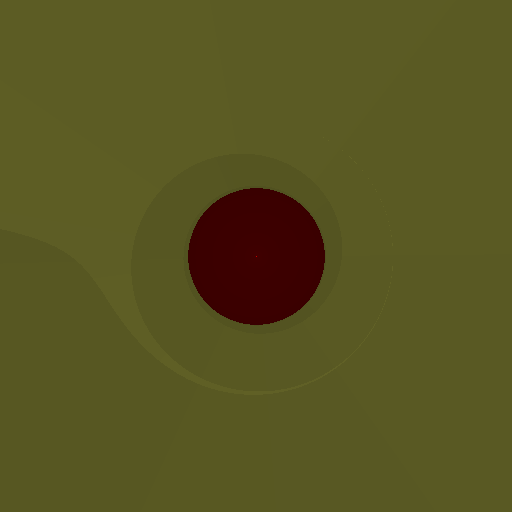
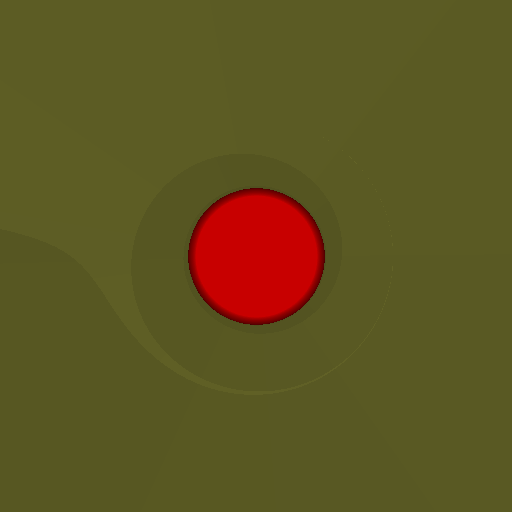
Ряд улучшений и исправлений.

Changed region(s): [[0.3438, 0.3438, 0.6562, 0.6562]]

diff --git a/FractalExplorerWPF/FractalExplorerWPF/FractalExplorerWPF/Core/Rendering/BasinExplorerEngine.Planar.cs b/FractalExplorerWPF/FractalExplorerWPF/FractalExplorerWPF/Core/Rendering/BasinExplorerEngine.Planar.cs
@@ -14,6 +14,7 @@ public sealed partial class BasinExplorerEngine
     private Func<Complex, (double A, double B, double C, double D)>? _planarJacobian;
     private List<PlanarBasinAttractor> _planarAttractors = [];
     private Complex[] _sectionNormals = [];
+    private EquilibriumTrap[] _equilibriumTraps = [];
     public bool IsPlanar => BasinExplorerCatalog.UsesPlanar(Kind);
     public IReadOnlyList<PlanarBasinAttractor> PlanarAttractors => _planarAttractors;
     public PlanarBasinSettings PlanarSettings => _planar.Clone();
@@ -24,6 +25,7 @@ public sealed partial class BasinExplorerEngine
         _planarField = null;
         _planarAttractors = [];
         _sectionNormals = [];
+        _equilibriumTraps = [];
         _planar = settings.Clone();
         ValidatePlanarSettings();
         RootSearchRadius = _planar.SearchRadius;
@@ -89,7 +91,9 @@ public sealed partial class BasinExplorerEngine
             BasinExplorerKind.ComplexGradientFlow => $"V(z) = |{complexFormula}|²/2\nz′ = −f(z)·conj(f′(z)). RK 5(4), контроль локальной ошибки.\nКритические точки с f ≠ 0 не считаются минимумами.",
             _ => $"x′ = {_planar.FieldX}\ny′ = {_planar.FieldY}\nRK 5(4). Равновесия: tr J < 0, det J > 0. Циклы: повторные возвраты на секцию и exp(∮div F dt) < 1."
         };
-        DebugInfo += $"\nАттракторов: {_planarAttractors.Count}. Поиск по конечной сетке ±{_planar.SearchRadius:G5}, полнота не гарантируется.\nЛимит времени/шагов оставляет медленные и нераспознанные траектории фоном.";
+        DebugInfo += $"\nАттракторов: {_planarAttractors.Count}. Поиск по конечной сетке ±{_planar.SearchRadius:G5}, полнота не гарантируется.\nЛимит времени/шагов оставляет медленные и нераспознанные траектории фоном." +
+            (Kind == BasinExplorerKind.GradientDescent ? string.Empty
+                : "\nУстойчивое равновесие захватывает и эллипс Ляпунова, в котором поле направлено внутрь; цикл — сжатие возвратов на секцию в μ раз за оборот.");
     }
 
     private void ValidatePlanarSettings()
@@ -118,11 +122,14 @@ public sealed partial class BasinExplorerEngine
     {
         if (Kind != BasinExplorerKind.ComplexGradientFlow)
         {
-            for (int iy = 0; iy <= 12; iy++)
-            for (int ix = 0; ix <= 12; ix++)
+            // Шаг сетки — 1/20 радиуса: при редкой сетке Ньютон из затравок у потенциалов с частыми
+            // минимумами приходит в сёдла и максимумы, и часть минимумов теряется.
+            const int half = 20;
+            for (int iy = 0; iy <= 2 * half; iy++)
+            for (int ix = 0; ix <= 2 * half; ix++)
             {
                 token.ThrowIfCancellationRequested();
-                Complex seed = new(_planar.SearchRadius * (ix / 6.0 - 1), _planar.SearchRadius * (iy / 6.0 - 1));
+                Complex seed = new(_planar.SearchRadius * ((double)ix / half - 1), _planar.SearchRadius * ((double)iy / half - 1));
                 if (TryPlanarEquilibrium(seed, out Complex root)) AddPlanarAttractor(new() { Points = [root] });
             }
         }
@@ -183,19 +190,31 @@ public sealed partial class BasinExplorerEngine
             if (candidate.IsCycle != known.IsCycle) continue;
             if (!candidate.IsCycle && (candidate.Points[0] - known.Points[0]).Magnitude < tolerance) return;
             if (candidate.IsCycle && Math.Abs(candidate.Period - known.Period) < tolerance * (1 + known.Period) &&
-                DistanceToCycle(candidate.Points[0], known.Points) < tolerance * (1 + candidate.Points[0].Magnitude)) return;
+                (DistanceToCycle(candidate.Points[0], known.Points) < tolerance * (1 + candidate.Points[0].Magnitude) ||
+                 PassesThroughCycleAnchor(candidate.Points[0], known))) return;
         }
         if (_planarAttractors.Count < 256) _planarAttractors.Add(candidate);
     }
 
-    private void RebuildPlanarSections() => _sectionNormals = _planarAttractors.Select(a =>
+    private void RebuildPlanarSections()
     {
-        Complex speed = _planarField!(a.Points[0]);
-        return a.IsCycle && speed.Magnitude > 0 ? speed / speed.Magnitude : Complex.Zero;
-    }).ToArray();
+        _sectionNormals = _planarAttractors.Select(a =>
+        {
+            Complex speed = _planarField!(a.Points[0]);
+            return a.IsCycle && speed.Magnitude > 0 ? speed / speed.Magnitude : Complex.Zero;
+        }).ToArray();
+        _equilibriumTraps = new EquilibriumTrap[_planarAttractors.Count];
+        // Ловушки опираются на непрерывность времени; у дискретного оптимизатора шаг может
+        // перепрыгнуть границу эллипса, поэтому там остаётся только допуск сходимости.
+        if (Kind == BasinExplorerKind.GradientDescent) return;
+        for (int i = 0; i < _planarAttractors.Count; i++)
+            if (!_planarAttractors[i].IsCycle) _equilibriumTraps[i] = BuildEquilibriumTrap(i);
+    }
 
     private int PlanarPointTarget(Complex z, Complex field)
     {
+        for (int i = 0; i < _equilibriumTraps.Length; i++)
+            if (_equilibriumTraps[i].Contains(z - _planarAttractors[i].Points[0])) return i;
         double tolerance = _planar.ConvergenceTolerance * (1 + z.Magnitude);
         if (field.Magnitude > tolerance) return -1;
         for (int i = 0; i < _planarAttractors.Count; i++)
@@ -251,12 +270,12 @@ public sealed partial class BasinExplorerEngine
 
     private BasinOrbitResult FlowOrbit(Complex z, CancellationToken token, List<Complex>? trace = null)
     {
-        double time = 0, h = _planar.TimeStep;
-        int cycleCandidate = -1, cycleHits = 0;
-        double previousHit = -1;
+        double time = 0, h = _planar.TimeStep, endTime = PlanarEndTime;
+        int cycleCandidate = -1, nearHits = 0, contractions = 0;
+        double previousHit = -1, previousOffset = 0;
         trace?.Add(z);
         int i = 0;
-        for (; i < MaxIterations && time < _planar.MaxTime; i++)
+        for (; i < MaxIterations && time < endTime; i++)
         {
             if ((i & 15) == 0) token.ThrowIfCancellationRequested();
             if (!IsFinite(z)) return new(BasinOrbitOutcome.NonFinite, i, time, z);
@@ -271,24 +290,121 @@ public sealed partial class BasinExplorerEngine
             for (int index = 0; index < _planarAttractors.Count; index++)
             {
                 PlanarBasinAttractor a = _planarAttractors[index];
-                if (!a.IsCycle || !CrossesSection(z, next, a.Points[0], _sectionNormals[index])) continue;
-                (Complex crossing, double fraction) = RefineSection(z, dt, a.Points[0], _sectionNormals[index]);
-                double tolerance = Math.Max(10 * _planar.ConvergenceTolerance, 30 * _planar.IntegrationTolerance) * (1 + crossing.Magnitude);
+                Complex anchor = a.Points[0], normal = _sectionNormals[index];
+                if (!a.IsCycle || !CrossesSection(z, next, anchor, normal)) continue;
+                (Complex crossing, double fraction) = RefineSection(z, dt, anchor, normal);
                 double hitTime = time + dt * fraction;
-                if ((crossing - a.Points[0]).Magnitude > tolerance) { if (cycleCandidate == index) cycleHits = 0; continue; }
-                cycleHits = cycleCandidate == index && Math.Abs(hitTime - previousHit - a.Period) < Math.Max(1e-3, tolerance) * (1 + a.Period)
-                    ? cycleHits + 1 : 1;
-                cycleCandidate = index; previousHit = hitTime;
-                if (cycleHits >= 3)
+                double distance = (crossing - anchor).Magnitude;
+                // Дальше этой окрестности возвраты на секцию не сравниваются с линейной моделью цикла.
+                if (distance > 0.1 * (1 + anchor.Magnitude))
+                {
+                    if (cycleCandidate == index) { nearHits = 0; contractions = 0; }
+                    continue;
+                }
+                double tolerance = Math.Max(10 * _planar.ConvergenceTolerance, 30 * _planar.IntegrationTolerance) * (1 + crossing.Magnitude);
+                double offset = Dot(crossing - anchor, new Complex(-normal.Imaginary, normal.Real));
+                bool sameCycle = cycleCandidate == index;
+                double returnTime = hitTime - previousHit;
+                if (distance > tolerance) nearHits = 0;
+                else nearHits = sameCycle && nearHits > 0 &&
+                    Math.Abs(returnTime - a.Period) < Math.Max(1e-3, tolerance) * (1 + a.Period) ? nearHits + 1 : 1;
+                // Слабо притягивающий цикл не успевает подойти на допуск за отведённое время, но уже
+                // в линейном режиме: смещение вдоль секции за оборот убывает ровно в μ раз. Сильно
+                // притягивающим циклам (μ < 0.01) это не нужно: они и так за пару оборотов входят в
+                // допуск, а их отношение смещений в нелинейной зоне шумит и дробило бы яркость.
+                bool contracting = sameCycle && a.TransverseMultiplier >= 0.01 && Math.Abs(returnTime - a.Period) < 0.05 * (1 + a.Period) &&
+                    offset * previousOffset > 0 && Math.Abs(offset) < Math.Abs(previousOffset) &&
+                    Math.Abs(Math.Abs(offset / previousOffset) - a.TransverseMultiplier) <= 0.25 * a.TransverseMultiplier + 0.02;
+                contractions = contracting ? contractions + 1 : 0;
+                cycleCandidate = index; previousHit = hitTime; previousOffset = offset;
+                if (nearHits >= 3 || contractions >= 2)
                 {
                     trace?.Add(crossing);
-                    return new(BasinOrbitOutcome.Converged, i + 1, hitTime, crossing, index);
+                    // Время для яркости — как у захвата по допуску: момент третьего возврата в допуск,
+                    // предсказанный по μ. Иначе оно зависело бы от того, на каком обороте сработала
+                    // проверка сжатия, и яркость бассейна шла бы зубцами.
+                    double captureTime = nearHits >= 3 ? hitTime
+                        : hitTime + a.Period * (2 + Math.Max(0, Math.Log(distance / tolerance) / -Math.Log(Math.Max(1e-300, a.TransverseMultiplier))));
+                    return new(BasinOrbitOutcome.Converged, i + 1, captureTime, crossing, index);
                 }
             }
             z = next; time += dt;
             trace?.Add(z);
         }
         return new(BasinOrbitOutcome.IterationLimit, i, time, z);
+    }
+
+    /// <summary>
+    /// Момент остановки чуть раньше лимита: иначе остаток времени после округлений (~1e-13)
+    /// меньше минимального шага интегратора, и исчерпанный лимит выглядел бы вырожденным шагом.
+    /// </summary>
+    private double PlanarEndTime => _planar.MaxTime * (1 - 1e-9);
+
+    /// <summary>
+    /// Эллипс δᵀPδ ≤ s² вокруг устойчивого равновесия, на границах которого поле во всех
+    /// проверенных направлениях заметно смотрит внутрь. P решает уравнение Ляпунова
+    /// JᵀP + PJ = −I; для вырожденного J (например, у кратного корня) берётся P = I. Эллипсы
+    /// проверяются от окрестности допуска наружу с шагом ×1.5, поэтому вошедшая траектория
+    /// из эллипса не выходит и приходит к равновесию. Так медленная спираль или кратный корень
+    /// не остаются фоном лишь потому, что не успели подойти на допуск за отведённое время.
+    /// Проверка выборочная (48 направлений на кольцо) — численная оценка, а не доказательство.
+    /// </summary>
+    private EquilibriumTrap BuildEquilibriumTrap(int index)
+    {
+        Complex point = _planarAttractors[index].Points[0];
+        var (a, b, c, d) = _planarJacobian!(point);
+        double p11 = 1, p12 = 0, p22 = 1;
+        // Правило Крамера для [2a 2c 0; b a+d c; 0 2b 2d]·(p11, p12, p22) = (−1, 0, −1).
+        double det = 2 * a * (2 * d * (a + d) - 2 * b * c) - 4 * b * c * d;
+        double size = Math.Abs(a) + Math.Abs(b) + Math.Abs(c) + Math.Abs(d);
+        if (double.IsFinite(det) && size > 0 && Math.Abs(det) > 1e-12 * size * size * size)
+        {
+            double q11 = (-2 * d * (a + d) + 2 * b * c - 2 * c * c) / det;
+            double q12 = (2 * a * c + 2 * b * d) / det;
+            double q22 = (-2 * a * (a + d) + 2 * b * c - 2 * b * b) / det;
+            if (double.IsFinite(q11) && double.IsFinite(q12) && double.IsFinite(q22) && q11 > 0 && q11 * q22 - q12 * q12 > 0)
+            {
+                double norm = Math.Max(q11, q22);
+                (p11, p12, p22) = (q11 / norm, q12 / norm, q22 / norm);
+            }
+        }
+        var shape = new EquilibriumTrap(p11, p12, p22, 0);
+        double spread = Math.Sqrt(Math.Pow((p11 - p22) / 2, 2) + p12 * p12);
+        double lambdaMin = (p11 + p22) / 2 - spread;
+        if (!(lambdaMin > 1e-12)) return shape;
+        double l11 = Math.Sqrt(p11), l21 = p12 / l11, l22 = Math.Sqrt(Math.Max(1e-300, p22 - l21 * l21));
+        double level = 0;
+        // Первое кольцо — на границе обычного допуска сходимости, последнее — в пределах радиуса ухода.
+        for (double s = 20 * _planar.ConvergenceTolerance * (1 + point.Magnitude) * Math.Sqrt(lambdaMin);
+             s / Math.Sqrt(lambdaMin) < _planar.EscapeRadius / 2; s *= 1.5)
+        {
+            bool inward = true;
+            for (int k = 0; k < 48 && inward; k++)
+            {
+                double angle = k * Math.PI / 24, ux = Math.Cos(angle), uy = Math.Sin(angle);
+                double dx = s * (ux / l11 - l21 * uy / (l11 * l22)), dy = s * uy / l22;
+                Complex field = _planarField!(point + new Complex(dx, dy));
+                if (!IsFinite(field)) { inward = false; break; }
+                double derivative = 2 * ((p11 * dx + p12 * dy) * field.Real + (p12 * dx + p22 * dy) * field.Imaginary);
+                double fieldNorm = Math.Sqrt(Math.Max(0,
+                    p11 * field.Real * field.Real + 2 * p12 * field.Real * field.Imaginary + p22 * field.Imaginary * field.Imaginary));
+                // Косинус угла между полем и внешней нормалью эллипса (в метрике P) не больше −0.02.
+                inward = derivative < -0.04 * s * fieldNorm;
+            }
+            var candidate = shape with { Level = s * s };
+            for (int other = 0; other < _planarAttractors.Count && inward; other++)
+                if (other != index && _planarAttractors[other].Points.Any(p => candidate.Contains(p - point)))
+                    inward = false;
+            if (!inward) break;
+            level = s * s;
+        }
+        return shape with { Level = level };
+    }
+
+    private readonly record struct EquilibriumTrap(double P11, double P12, double P22, double Level)
+    {
+        public bool Contains(Complex offset) => Level > 0 &&
+            P11 * offset.Real * offset.Real + 2 * P12 * offset.Real * offset.Imaginary + P22 * offset.Imaginary * offset.Imaginary <= Level;
     }
 
     private Color PlanarResultColor(BasinOrbitResult result)

diff --git a/FractalExplorerWPF/Verification/PlanarBasinVerification.cs b/FractalExplorerWPF/Verification/PlanarBasinVerification.cs
@@ -47,13 +47,38 @@ internal static partial class Program
             Check(himmelblau.AnalyzePoint(seed.Real, seed.Imaginary).Outcome == BasinOrbitOutcome.Converged, $"Himmelblau minimum near {seed} must capture.");
         var saddle = PlanarEngine(BasinExplorerKind.GradientDescent, new() { Potential = "(x^2-1)^2+y^2" });
         Check(saddle.TargetCount == 2 && saddle.AnalyzePoint(0, 0).TargetIndex < 0, "A stationary saddle must not be a minimum.");
+        var dense = PlanarEngine(BasinExplorerKind.GradientDescent, new() { Potential = "sin(3*x)*sin(3*y)+0.05*(x^2+y^2)", LearningRate = 0.02, SearchRadius = 3 });
+        int lost = 0;
+        for (int i = 0; i < 20; i++)
+        for (int j = 0; j < 20; j++)
+            if (dense.AnalyzePoint(-2 + 4 * (i + 0.37) / 20, -2 + 4 * (j + 0.61) / 20).TargetIndex < 0) lost++; // Не на диагонали x = y: там спуск честно приходит в сёдла.
+        Check(lost == 0, $"Dense minima inside the search radius must all be discovered; {lost} starts stayed background.");
         var escape = PlanarEngine(BasinExplorerKind.GradientDescent, new() { Potential = "(x^2+y^2)/2", LearningRate = 3 });
         Check(escape.AnalyzePoint(1, 1).Outcome == BasinOrbitOutcome.Escaped, "An unstable discrete step must escape, not silently shrink α.");
 
-        var flow = PlanarEngine(BasinExplorerKind.ComplexGradientFlow, new() { MaxTime = 1, IntegrationTolerance = 1e-9 }, "z");
+        // Без аттракторов захвата нет, и траектория доходит до лимита времени: проверяется сам интегратор.
+        var flow = new BasinExplorerEngine(BasinExplorerKind.ComplexGradientFlow) { MaxIterations = 8000 };
+        flow.ConfigurePlanar(new() { MaxTime = 1, IntegrationTolerance = 1e-9 }, "z", []);
         var decay = flow.AnalyzePoint(1, 2);
-        Check((decay.FinalPoint - new Complex(1, 2) * Math.Exp(-1)).Magnitude < 2e-8 && Math.Abs(decay.SmoothIterations - 1) < 1e-10,
-            $"Complex flow z′=-z must reproduce exponential decay and its time: {decay}.");
+        Check(decay.Outcome == BasinOrbitOutcome.IterationLimit &&
+              (decay.FinalPoint - new Complex(1, 2) * Math.Exp(-1)).Magnitude < 2e-8 && Math.Abs(decay.SmoothIterations - 1) < 1e-8,
+            $"Complex flow z′=-z must reproduce exponential decay and end as a time limit, not a degenerate step: {decay}.");
+        flow = PlanarEngine(BasinExplorerKind.ComplexGradientFlow, new(), "z");
+        Check(flow.AnalyzePoint(1, 2).TargetIndex == 0, "The Lyapunov trap of a linear sink must capture the whole disk around it.");
+        // Кратный корень: z′ ~ −|z−1|²(z−1) не подходит на допуск за разумное время, но бассейн
+        // обязан окрашиваться; ловушка при этом не должна дотянуться до седла V в z = −1/3.
+        var multiple = PlanarEngine(BasinExplorerKind.ComplexGradientFlow, new(), "(z-1)^2*(z+1)");
+        Check(multiple.TargetCount == 2 && multiple.AnalyzePoint(1.3, 0.2).TargetIndex == 1 && multiple.AnalyzePoint(-1.2, 0.1).TargetIndex == 0,
+            "A double root of the complex flow must color its basin.");
+        Check(multiple.AnalyzePoint(-1.0 / 3, 0).TargetIndex < 0, "The saddle of |f|² must not be inside an equilibrium trap.");
+        var weakFocus = PlanarEngine(BasinExplorerKind.PolynomialVectorField, new() { FieldX = "-0.05*x-y", FieldY = "x-0.05*y" });
+        Check(weakFocus.TargetCount == 1 && weakFocus.AnalyzePoint(1.5, 0.3).TargetIndex == 0, "A slowly contracting focus must not stay background.");
+        var weakCycle = PlanarEngine(BasinExplorerKind.PolynomialVectorField, new() { FieldX = "0.05*x*(1-x^2-y^2)-y", FieldY = "0.05*y*(1-x^2-y^2)+x" });
+        Check(weakCycle.TargetCount == 1 && weakCycle.AnalyzePoint(0.5, 0).TargetIndex == 0 && weakCycle.AnalyzePoint(1.5, 0.3).TargetIndex == 0,
+            "A weakly attracting cycle (μ ≈ 0.53) must be recognized by its per-turn contraction.");
+        var relaxation = PlanarEngine(BasinExplorerKind.PolynomialVectorField, new() { FieldX = "y", FieldY = "3*(1-x^2)*y-x" });
+        Check(relaxation.TargetCount == 1 && relaxation.AnalyzePoint(0.5, 0).TargetIndex == 0,
+            $"The Van der Pol relaxation cycle must be found once and capture orbits; found {relaxation.TargetCount}.");
         flow = PlanarEngine(BasinExplorerKind.ComplexGradientFlow, new(), "z^3-1");
         Check(flow.TargetCount == 3 && flow.AnalyzePoint(0, 0).TargetIndex < 0, "Complex flow must find roots but reject f′=0 with f≠0.");
         var trajectory = flow.TraceOrbit(0.6, 0.4, 512);

diff --git a/FractalExplorerWPF/FractalExplorerWPF/FractalExplorerWPF/Core/Rendering/BasinExplorerEngine.PlanarCycles.cs b/FractalExplorerWPF/FractalExplorerWPF/FractalExplorerWPF/Core/Rendering/BasinExplorerEngine.PlanarCycles.cs
@@ -15,7 +15,7 @@ public sealed partial class BasinExplorerEngine
         int repeats = 0;
         var lap = new List<Complex>();
         double maxStep = Math.Min(0.025, _planar.TimeStep);
-        for (int step = 0; step < MaxIterations && time < _planar.MaxTime; step++)
+        for (int step = 0; step < MaxIterations && time < PlanarEndTime; step++)
         {
             if ((step & 15) == 0) token.ThrowIfCancellationRequested();
             Complex speed = _planarField!(z);
@@ -56,6 +56,30 @@ public sealed partial class BasinExplorerEngine
             z = next; time += dt;
         }
         return null;
+    }
+
+    /// <summary>
+    /// Тот же ли это цикл: траектория из точки за полтора периода известного цикла пересекает его
+    /// секцию у опорной точки. Расстояние до ломаной точек цикла для этого ненадёжно: на быстрых
+    /// участках релаксационных колебаний хорды проходят далеко от самой кривой.
+    /// </summary>
+    private bool PassesThroughCycleAnchor(Complex start, PlanarBasinAttractor known)
+    {
+        Complex anchor = known.Points[0], speed = _planarField!(anchor);
+        if (!(speed.Magnitude > 0)) return false;
+        Complex normal = speed / speed.Magnitude;
+        double tolerance = Math.Max(1e-3, 50 * _planar.ConvergenceTolerance) * (1 + anchor.Magnitude);
+        double maxStep = Math.Min(0.025, _planar.TimeStep), h = maxStep, time = 0, end = 1.5 * known.Period;
+        Complex z = start;
+        for (int step = 0; step < 1_000_000 && time < end * (1 - 1e-9); step++)
+        {
+            if (!PlanarFlowIntegrator.Step(_planarField, z, ref h, maxStep, _planar.IntegrationTolerance,
+                    end - time, out Complex next, out double dt, CancellationToken.None)) return false;
+            if (CrossesSection(z, next, anchor, normal) && (RefineSection(z, dt, anchor, normal).Point - anchor).Magnitude < tolerance)
+                return true;
+            z = next; time += dt;
+        }
+        return false;
     }
 
     private double Divergence(Complex z)

diff --git a/FractalExplorerWPF/FractalExplorerWPF/FractalExplorerWPF/Views/BasinExplorerWindow.xaml.cs b/FractalExplorerWPF/FractalExplorerWPF/FractalExplorerWPF/Views/BasinExplorerWindow.xaml.cs
@@ -22,7 +22,8 @@ namespace FractalExplorerWPF.Views;
 
 /// <summary>
 /// Универсальное окно раздела «Бассейны притяжения»: методы Мюллера, Лагерра и секущих,
-/// рациональные отображения, периодические циклы, логистическая карта и физические модели.
+/// рациональные отображения, периодические циклы, логистическая карта, физические модели,
+/// градиентный спуск, комплексный градиентный поток и полиномиальные векторные поля.
 /// Режим задаётся при создании окна; разметка
 /// показывает только панели выбранного режима. Корни и аттракторы ищутся на UI-потоке при
 /// применении формулы и сохраняются в состоянии, а каждый кадр считает свежий движок.

diff --git a/FractalExplorerWPF/FractalExplorerWPF/FractalExplorerWPF/Infrastructure/BasinExplorerSaveStore.cs b/FractalExplorerWPF/FractalExplorerWPF/FractalExplorerWPF/Infrastructure/BasinExplorerSaveStore.cs
@@ -2,6 +2,6 @@ using FractalExplorerWPF.Models;
 
 namespace FractalExplorerWPF.Infrastructure;
 
-/// <summary>Сохранения окна бассейнов — отдельный каталог на каждый из пяти режимов.</summary>
+/// <summary>Сохранения окна бассейнов — отдельный каталог на каждый режим.</summary>
 public sealed class BasinExplorerSaveStore(BasinExplorerKind kind) : FractalSaveStore<BasinExplorerState>(
     BasinExplorerCatalog.GetDefinition(kind).SaveFilePrefix, state => state.SaveName);

diff --git a/AGENTS.md b/AGENTS.md
@@ -70,7 +70,7 @@ FractalExplorerWPF/FractalExplorerWPF/FractalExplorerWPF/
 |---|---|
 | `MainWindow.xaml` / `MainWindow.xaml.cs` | Главный каталог фракталов: дерево разделов, карточка выбранного режима, предпросмотр, выбор стратегии тайлового рендера и запуск соответствующего окна. Список доступных пунктов задаёт `Models/FractalCatalog.cs`. |
 | `Views/ApollonianWindow.xaml` / `.xaml.cs` | Исследователь Аполлоновой прокладки: рекурсивная упаковка касающихся окружностей, параметры построения и раскраски, навигация, сохранения и экспорт. Связаны `Models/ApollonianModels.cs`, `Core/Rendering/ApollonianRenderer.cs`, `Infrastructure/ApollonianSaveStore.cs`. |
-| `Views/BasinExplorerWindow.xaml` / `.xaml.cs` | Универсальное окно одиннадцати пунктов раздела «Бассейны притяжения» (`BasinExplorerKind`). Методы поиска корней раскрашивают точки по найденному корню: Мюллер — тройка начальных приближений (симметричная, отстающая или с двумя якорями), Лагерр — автоматическое или ручное n, переключение на Ньютона и карта расхождения «Лагерр ≠ Ньютон», секущие — фиксированная x₀, пара z − h, z или двумерный срез четырёхмерного пространства состояний (x₀, x₁). Рациональные отображения P/Q и произвольные f(z) с параметром c раскрашивают точки по притягивающему циклу периода 1…N (и по ∞, если он притягивает): циклы ищутся по орбитам критических точек и сетке затравок с уточнением Ньютоном для Rᵖ(z) − z и проверкой |λ| < 1; полюс переводит орбиту в R(∞). Раскраска по скорости сходимости, фазе внутри цикла и периоду, фильтр периода, маркеры циклов и критических точек; правая кнопка показывает орбиту точки и задаёт затравку для поиска цикла. Корни ищутся тем же поисковиком, что у бассейнов Ньютона, палитры — `NewtonPaletteManager`/`NewtonPaletteWindow`. Вычисления в double, зум до 1e12. Связаны `Models/BasinExplorerModels.cs`, `Core/Rendering/BasinExplorerEngine.cs` (и частичные `.RootMethods.cs`, `.Attractors.cs`), `Core/Rendering/NewtonRootFinder.cs`, `Infrastructure/BasinExplorerSaveStore.cs`. Комплексное логистическое отображение λz(1−z) поддерживает плоскости z₀ и λ, распознавание притягивающих периодов до 64, фильтр периода и переход двойным щелчком к бассейнам выбранного λ. Магнитный маятник и притягивающие центры интегрируются RK4 с ограничением шага; от 1 до 16 неподвижных центров редактируются мышью или численно, задаются силы/массы, радиусы захвата, трение, высота/смягчение, начальная скорость и время. Маятник захватывается после устойчивого успокоения; для центров доступно также поглощение при пересечении радиуса. Яркость физических бассейнов кодирует время, предпросмотр по умолчанию уменьшен втрое, экспорт — полного размера. Дополнительные файлы: `Models/PhysicalBasinModels.cs`, `Core/Rendering/BasinExplorerEngine.Logistic.cs`, `.Physics.cs`, `Views/BasinExplorerWindow.Physics.cs`. Бассейны градиентного спуска раскрашивают старт по строгому минимуму пользовательского потенциала V(x,y) (символьный градиент и гессиан) для GD, momentum, Nesterov и Adam с постоянным шагом и нулевой памятью на пиксель. Комплексный градиентный поток интегрирует z′ = −f(z)·conj(f′(z)) для V = ½|f(z)|², аттракторы — корни f. Полиномиальные векторные поля x′ = f(x,y), y′ = g(x,y) (степень до 32) интегрируются адаптивным Dormand–Prince 5(4); устойчивые равновесия проверяются по tr J < 0, det J > 0, предельные циклы — по повторным возвратам на секцию Пуанкаре и мультипликатору exp(∮div F dt) < 1, центры и сёдла не раскрашиваются. Правая кнопка показывает траекторию, найденные аттракторы сохраняются вместе с состоянием. Дополнительные файлы: `Models/PlanarBasinModels.cs`, `Core/Math/CompiledRealPlaneExpression.cs`, `Core/Rendering/PlanarFlowIntegrator.cs`, `Core/Rendering/BasinExplorerEngine.Planar.cs`, `.PlanarCycles.cs`, `Views/BasinExplorerWindow.Planar.cs`. |
+| `Views/BasinExplorerWindow.xaml` / `.xaml.cs` | Универсальное окно одиннадцати пунктов раздела «Бассейны притяжения» (`BasinExplorerKind`). Методы поиска корней раскрашивают точки по найденному корню: Мюллер — тройка начальных приближений (симметричная, отстающая или с двумя якорями), Лагерр — автоматическое или ручное n, переключение на Ньютона и карта расхождения «Лагерр ≠ Ньютон», секущие — фиксированная x₀, пара z − h, z или двумерный срез четырёхмерного пространства состояний (x₀, x₁). Рациональные отображения P/Q и произвольные f(z) с параметром c раскрашивают точки по притягивающему циклу периода 1…N (и по ∞, если он притягивает): циклы ищутся по орбитам критических точек и сетке затравок с уточнением Ньютоном для Rᵖ(z) − z и проверкой |λ| < 1; полюс переводит орбиту в R(∞). Раскраска по скорости сходимости, фазе внутри цикла и периоду, фильтр периода, маркеры циклов и критических точек; правая кнопка показывает орбиту точки и задаёт затравку для поиска цикла. Корни ищутся тем же поисковиком, что у бассейнов Ньютона, палитры — `NewtonPaletteManager`/`NewtonPaletteWindow`. Вычисления в double, зум до 1e12. Связаны `Models/BasinExplorerModels.cs`, `Core/Rendering/BasinExplorerEngine.cs` (и частичные `.RootMethods.cs`, `.Attractors.cs`), `Core/Rendering/NewtonRootFinder.cs`, `Infrastructure/BasinExplorerSaveStore.cs`. Комплексное логистическое отображение λz(1−z) поддерживает плоскости z₀ и λ, распознавание притягивающих периодов до 64, фильтр периода и переход двойным щелчком к бассейнам выбранного λ. Магнитный маятник и притягивающие центры интегрируются RK4 с ограничением шага; от 1 до 16 неподвижных центров редактируются мышью или численно, задаются силы/массы, радиусы захвата, трение, высота/смягчение, начальная скорость и время. Маятник захватывается после устойчивого успокоения; для центров доступно также поглощение при пересечении радиуса. Яркость физических бассейнов кодирует время, предпросмотр по умолчанию уменьшен втрое, экспорт — полного размера. Дополнительные файлы: `Models/PhysicalBasinModels.cs`, `Core/Rendering/BasinExplorerEngine.Logistic.cs`, `.Physics.cs`, `Views/BasinExplorerWindow.Physics.cs`. Бассейны градиентного спуска раскрашивают старт по строгому минимуму пользовательского потенциала V(x,y) (символьный градиент и гессиан) для GD, momentum, Nesterov и Adam с постоянным шагом и нулевой памятью на пиксель. Комплексный градиентный поток интегрирует z′ = −f(z)·conj(f′(z)) для V = ½|f(z)|², аттракторы — корни f. Полиномиальные векторные поля x′ = f(x,y), y′ = g(x,y) (степень до 32) интегрируются адаптивным Dormand–Prince 5(4); устойчивые равновесия проверяются по tr J < 0, det J > 0, предельные циклы — по повторным возвратам на секцию Пуанкаре и мультипликатору exp(∮div F dt) < 1, центры и сёдла не раскрашиваются. Непрерывные траектории захватываются также эллипсом Ляпунова вокруг равновесия (поле на его кольцах смотрит внутрь; для кратного корня P = I) и сжатием возвратов на секцию цикла в μ раз за оборот, поэтому медленные спирали, кратные корни и слабо притягивающие циклы не уходят в фон по лимиту времени; одинаковые циклы сравниваются по прохождению секции. Правая кнопка показывает траекторию, найденные аттракторы сохраняются вместе с состоянием. Дополнительные файлы: `Models/PlanarBasinModels.cs`, `Core/Math/CompiledRealPlaneExpression.cs`, `Core/Rendering/PlanarFlowIntegrator.cs`, `Core/Rendering/BasinExplorerEngine.Planar.cs`, `.PlanarCycles.cs`, `Views/BasinExplorerWindow.Planar.cs`. |
 | `Views/BuddhabrotWindow.xaml` / `.xaml.cs` | Рендер Буддаброта и Анти-Буддаброта с накоплением плотности орбит, каналами/экспозицией, навигацией, сохранениями и экспортом. Связаны `Models/BuddhabrotModels.cs`, `Core/Rendering/BuddhabrotRenderer.cs`, `Infrastructure/BuddhabrotSaveStore.cs`. |
 | `Views/CollatzWindow.xaml` / `.xaml.cs` | Комплексный фрактал Коллатца: параметры итераций и области, рендер, навигация, палитра, сохранения и экспорт. Поддерживает глубокий зум до 1e50 — выше 1e10 орбита считается напрямую в произвольной точности, а центр ведётся в `BigFloat`. Связаны `Models/CollatzModels.cs`, `Core/Rendering/CollatzRenderer.cs`, `Core/Rendering/CollatzRenderer.DeepZoom.cs`, `Core/Math/BigFloatMath.cs`, `Core/Math/ComplexBigFloat.cs`, `Infrastructure/CollatzSaveStore.cs`. |
 | `Views/DlaWindow.xaml` / `.xaml.cs` | DLA (диффузионно-ограниченная агрегация): моделирование роста кластера случайными частицами, отображение процесса, настройки, сохранения и экспорт. Связаны `Models/DlaModels.cs`, `Core/Rendering/DlaRenderer.cs`, `Infrastructure/DlaSaveStore.cs`. |

diff --git a/CLAUDE.md b/CLAUDE.md
@@ -70,7 +70,7 @@ FractalExplorerWPF/FractalExplorerWPF/FractalExplorerWPF/
 |---|---|
 | `MainWindow.xaml` / `MainWindow.xaml.cs` | Главный каталог фракталов: дерево разделов, карточка выбранного режима, предпросмотр, выбор стратегии тайлового рендера и запуск соответствующего окна. Список доступных пунктов задаёт `Models/FractalCatalog.cs`. |
 | `Views/ApollonianWindow.xaml` / `.xaml.cs` | Исследователь Аполлоновой прокладки: рекурсивная упаковка касающихся окружностей, параметры построения и раскраски, навигация, сохранения и экспорт. Связаны `Models/ApollonianModels.cs`, `Core/Rendering/ApollonianRenderer.cs`, `Infrastructure/ApollonianSaveStore.cs`. |
-| `Views/BasinExplorerWindow.xaml` / `.xaml.cs` | Универсальное окно одиннадцати пунктов раздела «Бассейны притяжения» (`BasinExplorerKind`). Методы поиска корней раскрашивают точки по найденному корню: Мюллер — тройка начальных приближений (симметричная, отстающая или с двумя якорями), Лагерр — автоматическое или ручное n, переключение на Ньютона и карта расхождения «Лагерр ≠ Ньютон», секущие — фиксированная x₀, пара z − h, z или двумерный срез четырёхмерного пространства состояний (x₀, x₁). Рациональные отображения P/Q и произвольные f(z) с параметром c раскрашивают точки по притягивающему циклу периода 1…N (и по ∞, если он притягивает): циклы ищутся по орбитам критических точек и сетке затравок с уточнением Ньютоном для Rᵖ(z) − z и проверкой |λ| < 1; полюс переводит орбиту в R(∞). Раскраска по скорости сходимости, фазе внутри цикла и периоду, фильтр периода, маркеры циклов и критических точек; правая кнопка показывает орбиту точки и задаёт затравку для поиска цикла. Корни ищутся тем же поисковиком, что у бассейнов Ньютона, палитры — `NewtonPaletteManager`/`NewtonPaletteWindow`. Вычисления в double, зум до 1e12. Связаны `Models/BasinExplorerModels.cs`, `Core/Rendering/BasinExplorerEngine.cs` (и частичные `.RootMethods.cs`, `.Attractors.cs`), `Core/Rendering/NewtonRootFinder.cs`, `Infrastructure/BasinExplorerSaveStore.cs`. Комплексное логистическое отображение λz(1−z) поддерживает плоскости z₀ и λ, распознавание притягивающих периодов до 64, фильтр периода и переход двойным щелчком к бассейнам выбранного λ. Магнитный маятник и притягивающие центры интегрируются RK4 с ограничением шага; от 1 до 16 неподвижных центров редактируются мышью или численно, задаются силы/массы, радиусы захвата, трение, высота/смягчение, начальная скорость и время. Маятник захватывается после устойчивого успокоения; для центров доступно также поглощение при пересечении радиуса. Яркость физических бассейнов кодирует время, предпросмотр по умолчанию уменьшен втрое, экспорт — полного размера. Дополнительные файлы: `Models/PhysicalBasinModels.cs`, `Core/Rendering/BasinExplorerEngine.Logistic.cs`, `.Physics.cs`, `Views/BasinExplorerWindow.Physics.cs`. Бассейны градиентного спуска раскрашивают старт по строгому минимуму пользовательского потенциала V(x,y) (символьный градиент и гессиан) для GD, momentum, Nesterov и Adam с постоянным шагом и нулевой памятью на пиксель. Комплексный градиентный поток интегрирует z′ = −f(z)·conj(f′(z)) для V = ½|f(z)|², аттракторы — корни f. Полиномиальные векторные поля x′ = f(x,y), y′ = g(x,y) (степень до 32) интегрируются адаптивным Dormand–Prince 5(4); устойчивые равновесия проверяются по tr J < 0, det J > 0, предельные циклы — по повторным возвратам на секцию Пуанкаре и мультипликатору exp(∮div F dt) < 1, центры и сёдла не раскрашиваются. Правая кнопка показывает траекторию, найденные аттракторы сохраняются вместе с состоянием. Дополнительные файлы: `Models/PlanarBasinModels.cs`, `Core/Math/CompiledRealPlaneExpression.cs`, `Core/Rendering/PlanarFlowIntegrator.cs`, `Core/Rendering/BasinExplorerEngine.Planar.cs`, `.PlanarCycles.cs`, `Views/BasinExplorerWindow.Planar.cs`. |
+| `Views/BasinExplorerWindow.xaml` / `.xaml.cs` | Универсальное окно одиннадцати пунктов раздела «Бассейны притяжения» (`BasinExplorerKind`). Методы поиска корней раскрашивают точки по найденному корню: Мюллер — тройка начальных приближений (симметричная, отстающая или с двумя якорями), Лагерр — автоматическое или ручное n, переключение на Ньютона и карта расхождения «Лагерр ≠ Ньютон», секущие — фиксированная x₀, пара z − h, z или двумерный срез четырёхмерного пространства состояний (x₀, x₁). Рациональные отображения P/Q и произвольные f(z) с параметром c раскрашивают точки по притягивающему циклу периода 1…N (и по ∞, если он притягивает): циклы ищутся по орбитам критических точек и сетке затравок с уточнением Ньютоном для Rᵖ(z) − z и проверкой |λ| < 1; полюс переводит орбиту в R(∞). Раскраска по скорости сходимости, фазе внутри цикла и периоду, фильтр периода, маркеры циклов и критических точек; правая кнопка показывает орбиту точки и задаёт затравку для поиска цикла. Корни ищутся тем же поисковиком, что у бассейнов Ньютона, палитры — `NewtonPaletteManager`/`NewtonPaletteWindow`. Вычисления в double, зум до 1e12. Связаны `Models/BasinExplorerModels.cs`, `Core/Rendering/BasinExplorerEngine.cs` (и частичные `.RootMethods.cs`, `.Attractors.cs`), `Core/Rendering/NewtonRootFinder.cs`, `Infrastructure/BasinExplorerSaveStore.cs`. Комплексное логистическое отображение λz(1−z) поддерживает плоскости z₀ и λ, распознавание притягивающих периодов до 64, фильтр периода и переход двойным щелчком к бассейнам выбранного λ. Магнитный маятник и притягивающие центры интегрируются RK4 с ограничением шага; от 1 до 16 неподвижных центров редактируются мышью или численно, задаются силы/массы, радиусы захвата, трение, высота/смягчение, начальная скорость и время. Маятник захватывается после устойчивого успокоения; для центров доступно также поглощение при пересечении радиуса. Яркость физических бассейнов кодирует время, предпросмотр по умолчанию уменьшен втрое, экспорт — полного размера. Дополнительные файлы: `Models/PhysicalBasinModels.cs`, `Core/Rendering/BasinExplorerEngine.Logistic.cs`, `.Physics.cs`, `Views/BasinExplorerWindow.Physics.cs`. Бассейны градиентного спуска раскрашивают старт по строгому минимуму пользовательского потенциала V(x,y) (символьный градиент и гессиан) для GD, momentum, Nesterov и Adam с постоянным шагом и нулевой памятью на пиксель. Комплексный градиентный поток интегрирует z′ = −f(z)·conj(f′(z)) для V = ½|f(z)|², аттракторы — корни f. Полиномиальные векторные поля x′ = f(x,y), y′ = g(x,y) (степень до 32) интегрируются адаптивным Dormand–Prince 5(4); устойчивые равновесия проверяются по tr J < 0, det J > 0, предельные циклы — по повторным возвратам на секцию Пуанкаре и мультипликатору exp(∮div F dt) < 1, центры и сёдла не раскрашиваются. Непрерывные траектории захватываются также эллипсом Ляпунова вокруг равновесия (поле на его кольцах смотрит внутрь; для кратного корня P = I) и сжатием возвратов на секцию цикла в μ раз за оборот, поэтому медленные спирали, кратные корни и слабо притягивающие циклы не уходят в фон по лимиту времени; одинаковые циклы сравниваются по прохождению секции. Правая кнопка показывает траекторию, найденные аттракторы сохраняются вместе с состоянием. Дополнительные файлы: `Models/PlanarBasinModels.cs`, `Core/Math/CompiledRealPlaneExpression.cs`, `Core/Rendering/PlanarFlowIntegrator.cs`, `Core/Rendering/BasinExplorerEngine.Planar.cs`, `.PlanarCycles.cs`, `Views/BasinExplorerWindow.Planar.cs`. |
 | `Views/BuddhabrotWindow.xaml` / `.xaml.cs` | Рендер Буддаброта и Анти-Буддаброта с накоплением плотности орбит, каналами/экспозицией, навигацией, сохранениями и экспортом. Связаны `Models/BuddhabrotModels.cs`, `Core/Rendering/BuddhabrotRenderer.cs`, `Infrastructure/BuddhabrotSaveStore.cs`. |
 | `Views/CollatzWindow.xaml` / `.xaml.cs` | Комплексный фрактал Коллатца: параметры итераций и области, рендер, навигация, палитра, сохранения и экспорт. Поддерживает глубокий зум до 1e50 — выше 1e10 орбита считается напрямую в произвольной точности, а центр ведётся в `BigFloat`. Связаны `Models/CollatzModels.cs`, `Core/Rendering/CollatzRenderer.cs`, `Core/Rendering/CollatzRenderer.DeepZoom.cs`, `Core/Math/BigFloatMath.cs`, `Core/Math/ComplexBigFloat.cs`, `Infrastructure/CollatzSaveStore.cs`. |
 | `Views/DlaWindow.xaml` / `.xaml.cs` | DLA (диффузионно-ограниченная агрегация): моделирование роста кластера случайными частицами, отображение процесса, настройки, сохранения и экспорт. Связаны `Models/DlaModels.cs`, `Core/Rendering/DlaRenderer.cs`, `Infrastructure/DlaSaveStore.cs`. |

diff --git a/FractalExplorerWPF/Verification/README.md b/FractalExplorerWPF/Verification/README.md
@@ -73,7 +73,7 @@ dotnet run --project .\FractalExplorerWPF\Verification\SavePreviewVerification.c
 7. **Физические модели** — захват одиночным центром, пересечение границы радиуса, быстрый пролёт без пропуска столкновения, устойчивое успокоение маятника, сравнение RK4 с мелким шагом, отмена внутри траектории, валидация и независимость копий центров.
 8. **Новые окна** — создание без показа, загрузка и снятие параметров, нужные панели и сохранение через отдельные хранилища с воспроизводимым кадром. Пользовательские данные изолированы через `DataSandbox`.
 9. **Оформление всех одиннадцати бассейнов** — палитра «Оттенки серого» и скрытые маркеры по умолчанию; переключатель закреплён над прокручиваемыми настройками. Все режимы маркеров рисуют геометрию, а «Скрыть» убирает также пунктир циклов, радиусы, подписи и траектории. Редактор центров не включает маркеры сам; явные настройки сохранений восстанавливаются.
-10. **Оптимизация и непрерывные потоки** — первый шаг GD, momentum, Nesterov и Adam на квадратичной форме совпадает с формулой, память не переносится между пикселями; у Химмельблау четыре минимума, седло не аттрактор, слишком большой α уходит. Поток z′ = −z воспроизводит e⁻ᵗ, у z³ − 1 три корня, а потенциал вдоль траектории не растёт. Векторные поля: два и четыре равновесия, цикл Хопфа (единичная окружность, T = 2π, μ = exp(−4π)), точка и цикл с разделяющей окружностью r = 0.5, два вложенных цикла, Ван дер Поль; центр и источник отклоняются, неполиномиальные поля не принимаются. Окна, глубокие копии и сохранения воспроизводят кадр.
+10. **Оптимизация и непрерывные потоки** — первый шаг GD, momentum, Nesterov и Adam на квадратичной форме совпадает с формулой, память не переносится между пикселями; у Химмельблау четыре минимума, седло не аттрактор, слишком большой α уходит. Поток z′ = −z воспроизводит e⁻ᵗ, у z³ − 1 три корня, а потенциал вдоль траектории не растёт. Векторные поля: два и четыре равновесия, цикл Хопфа (единичная окружность, T = 2π, μ = exp(−4π)), точка и цикл с разделяющей окружностью r = 0.5, два вложенных цикла, Ван дер Поль; центр и источник отклоняются, неполиномиальные поля не принимаются. Исчерпанное время — лимит, а не вырожденный шаг; двойной корень потока окрашивает бассейн, а седло |f|² в него не попадает; медленная спираль (−0.05 ± i) и слабый цикл (μ ≈ 0.53) распознаются, релаксационный цикл Ван дер Поля (μ = 3) находится один раз; у sin(3x)·sin(3y) + 0.05r² все минимумы в радиусе поиска найдены. Окна, глубокие копии и сохранения воспроизводят кадр.
 
 Превью трёх режимов (палитра «Огонь»): `-- planar --planar-previews <каталог Assets\Previews>`.
 
